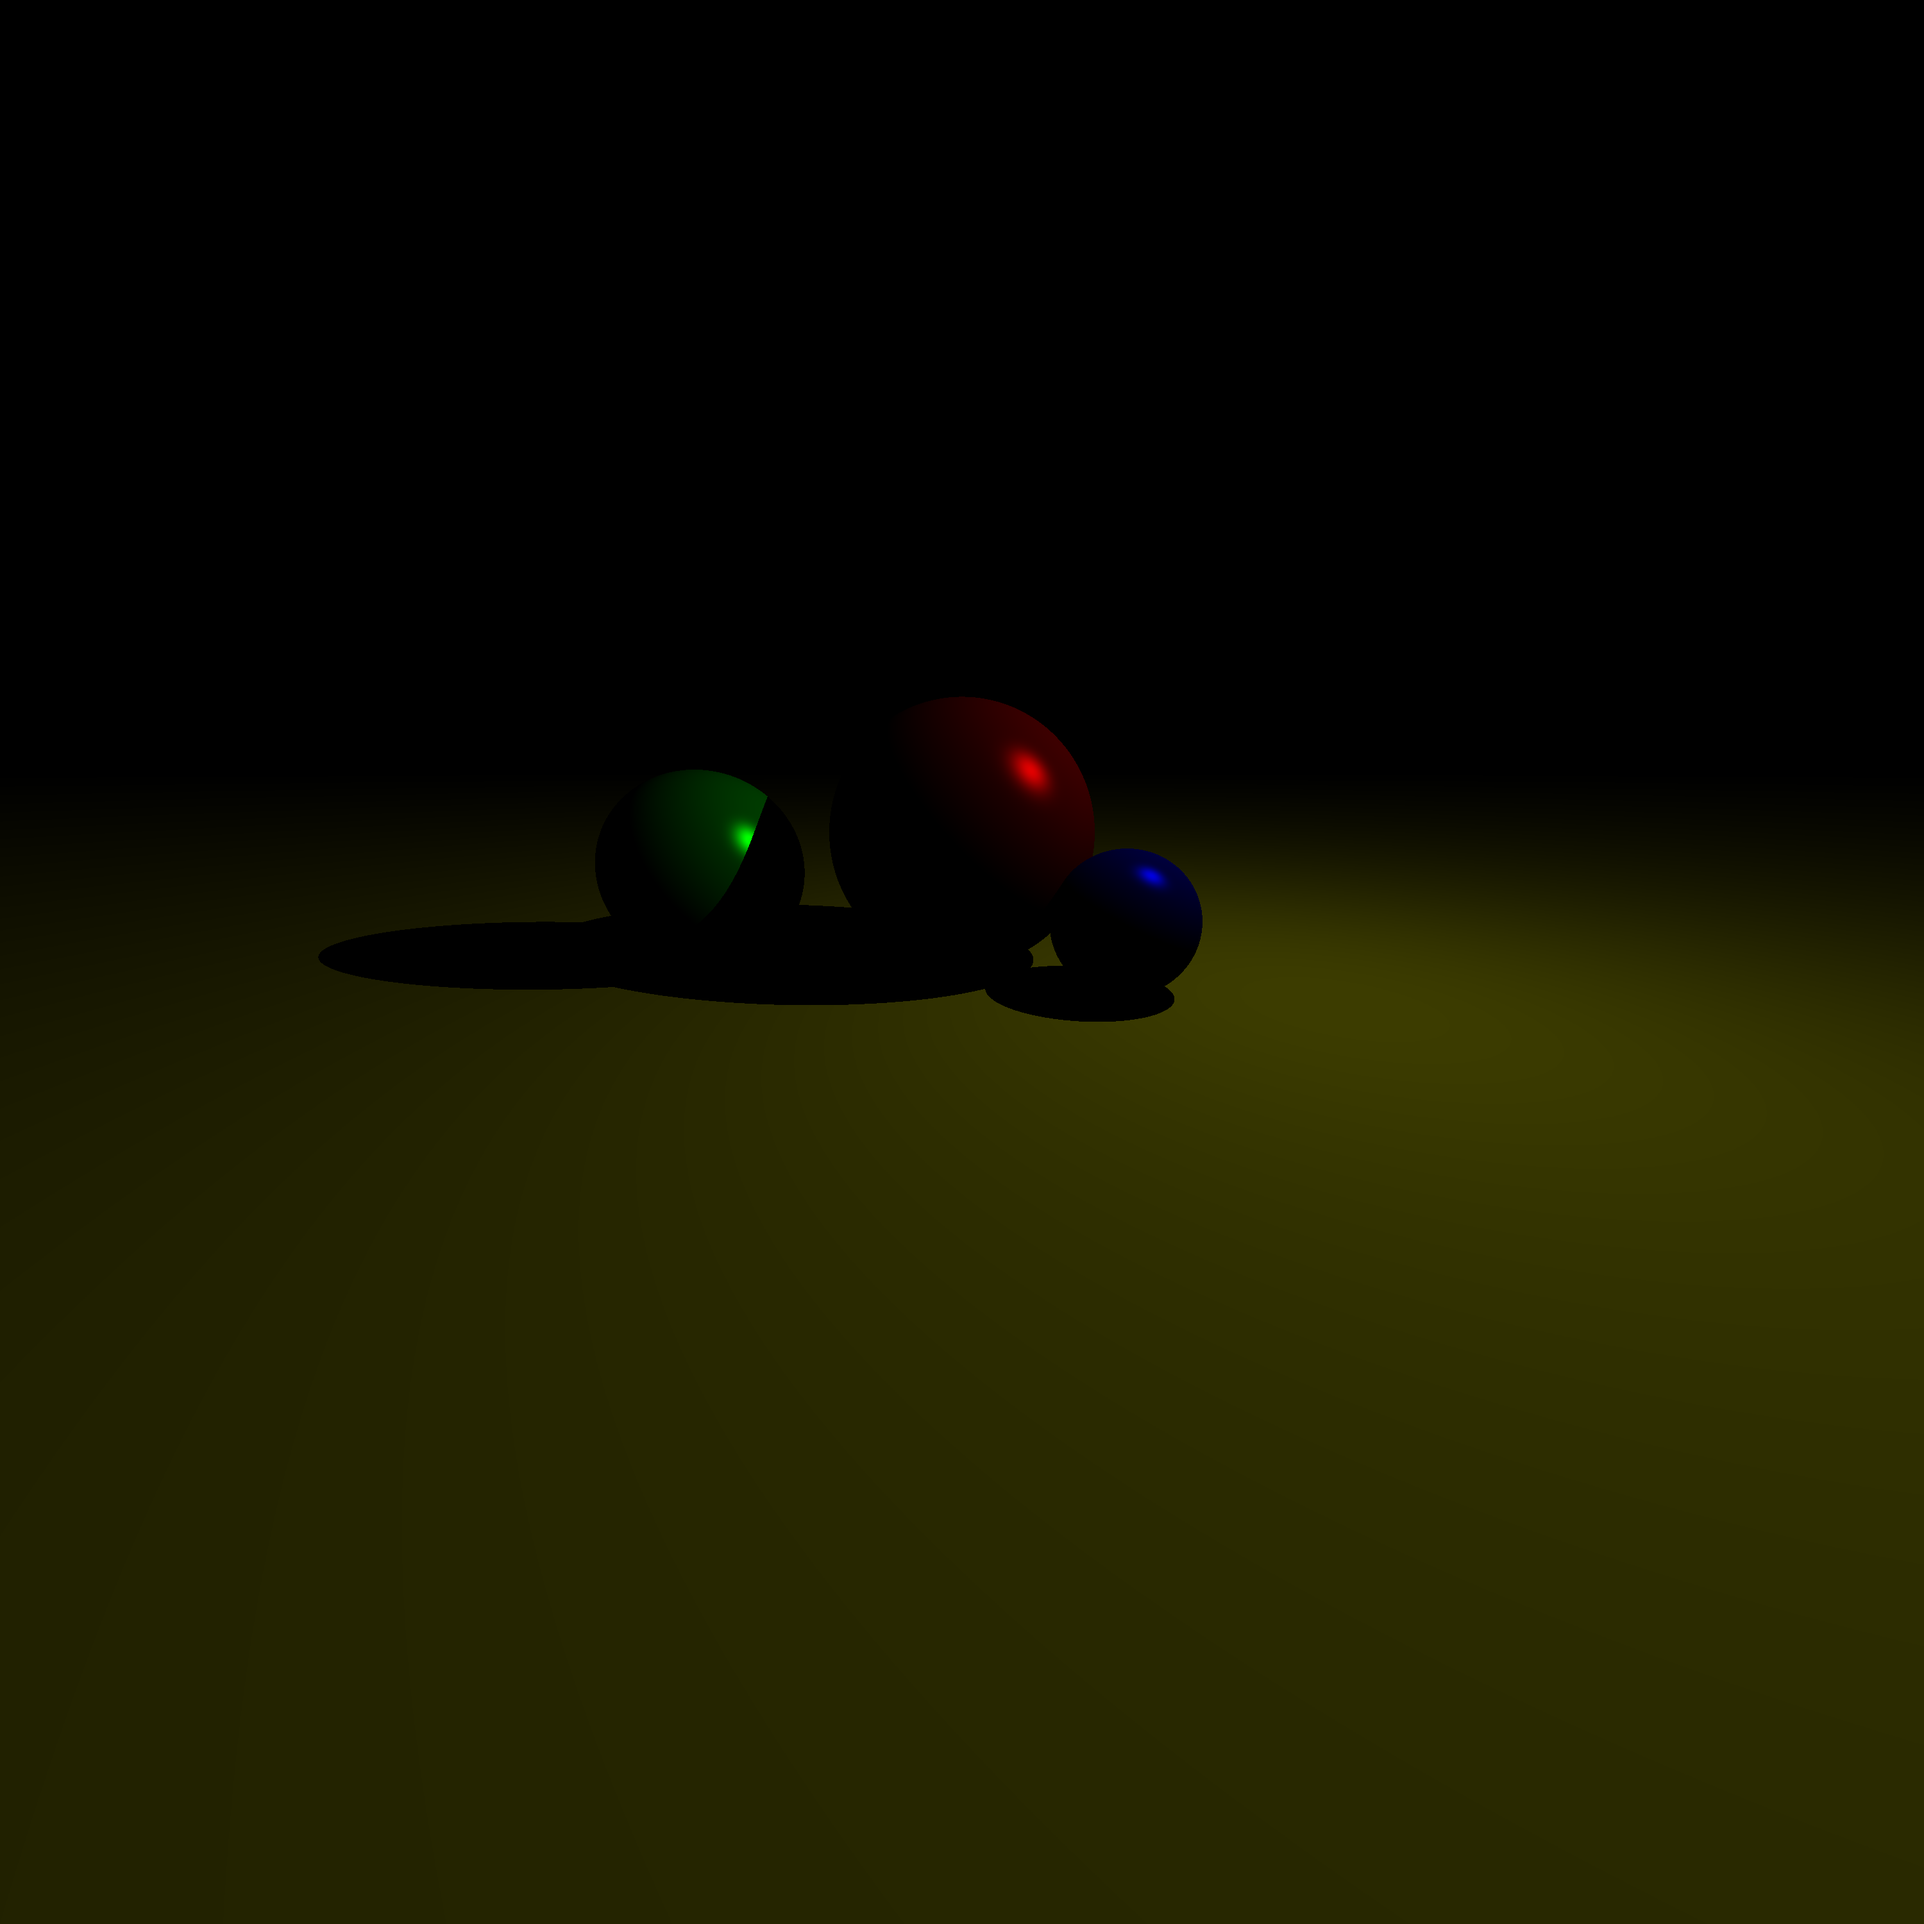
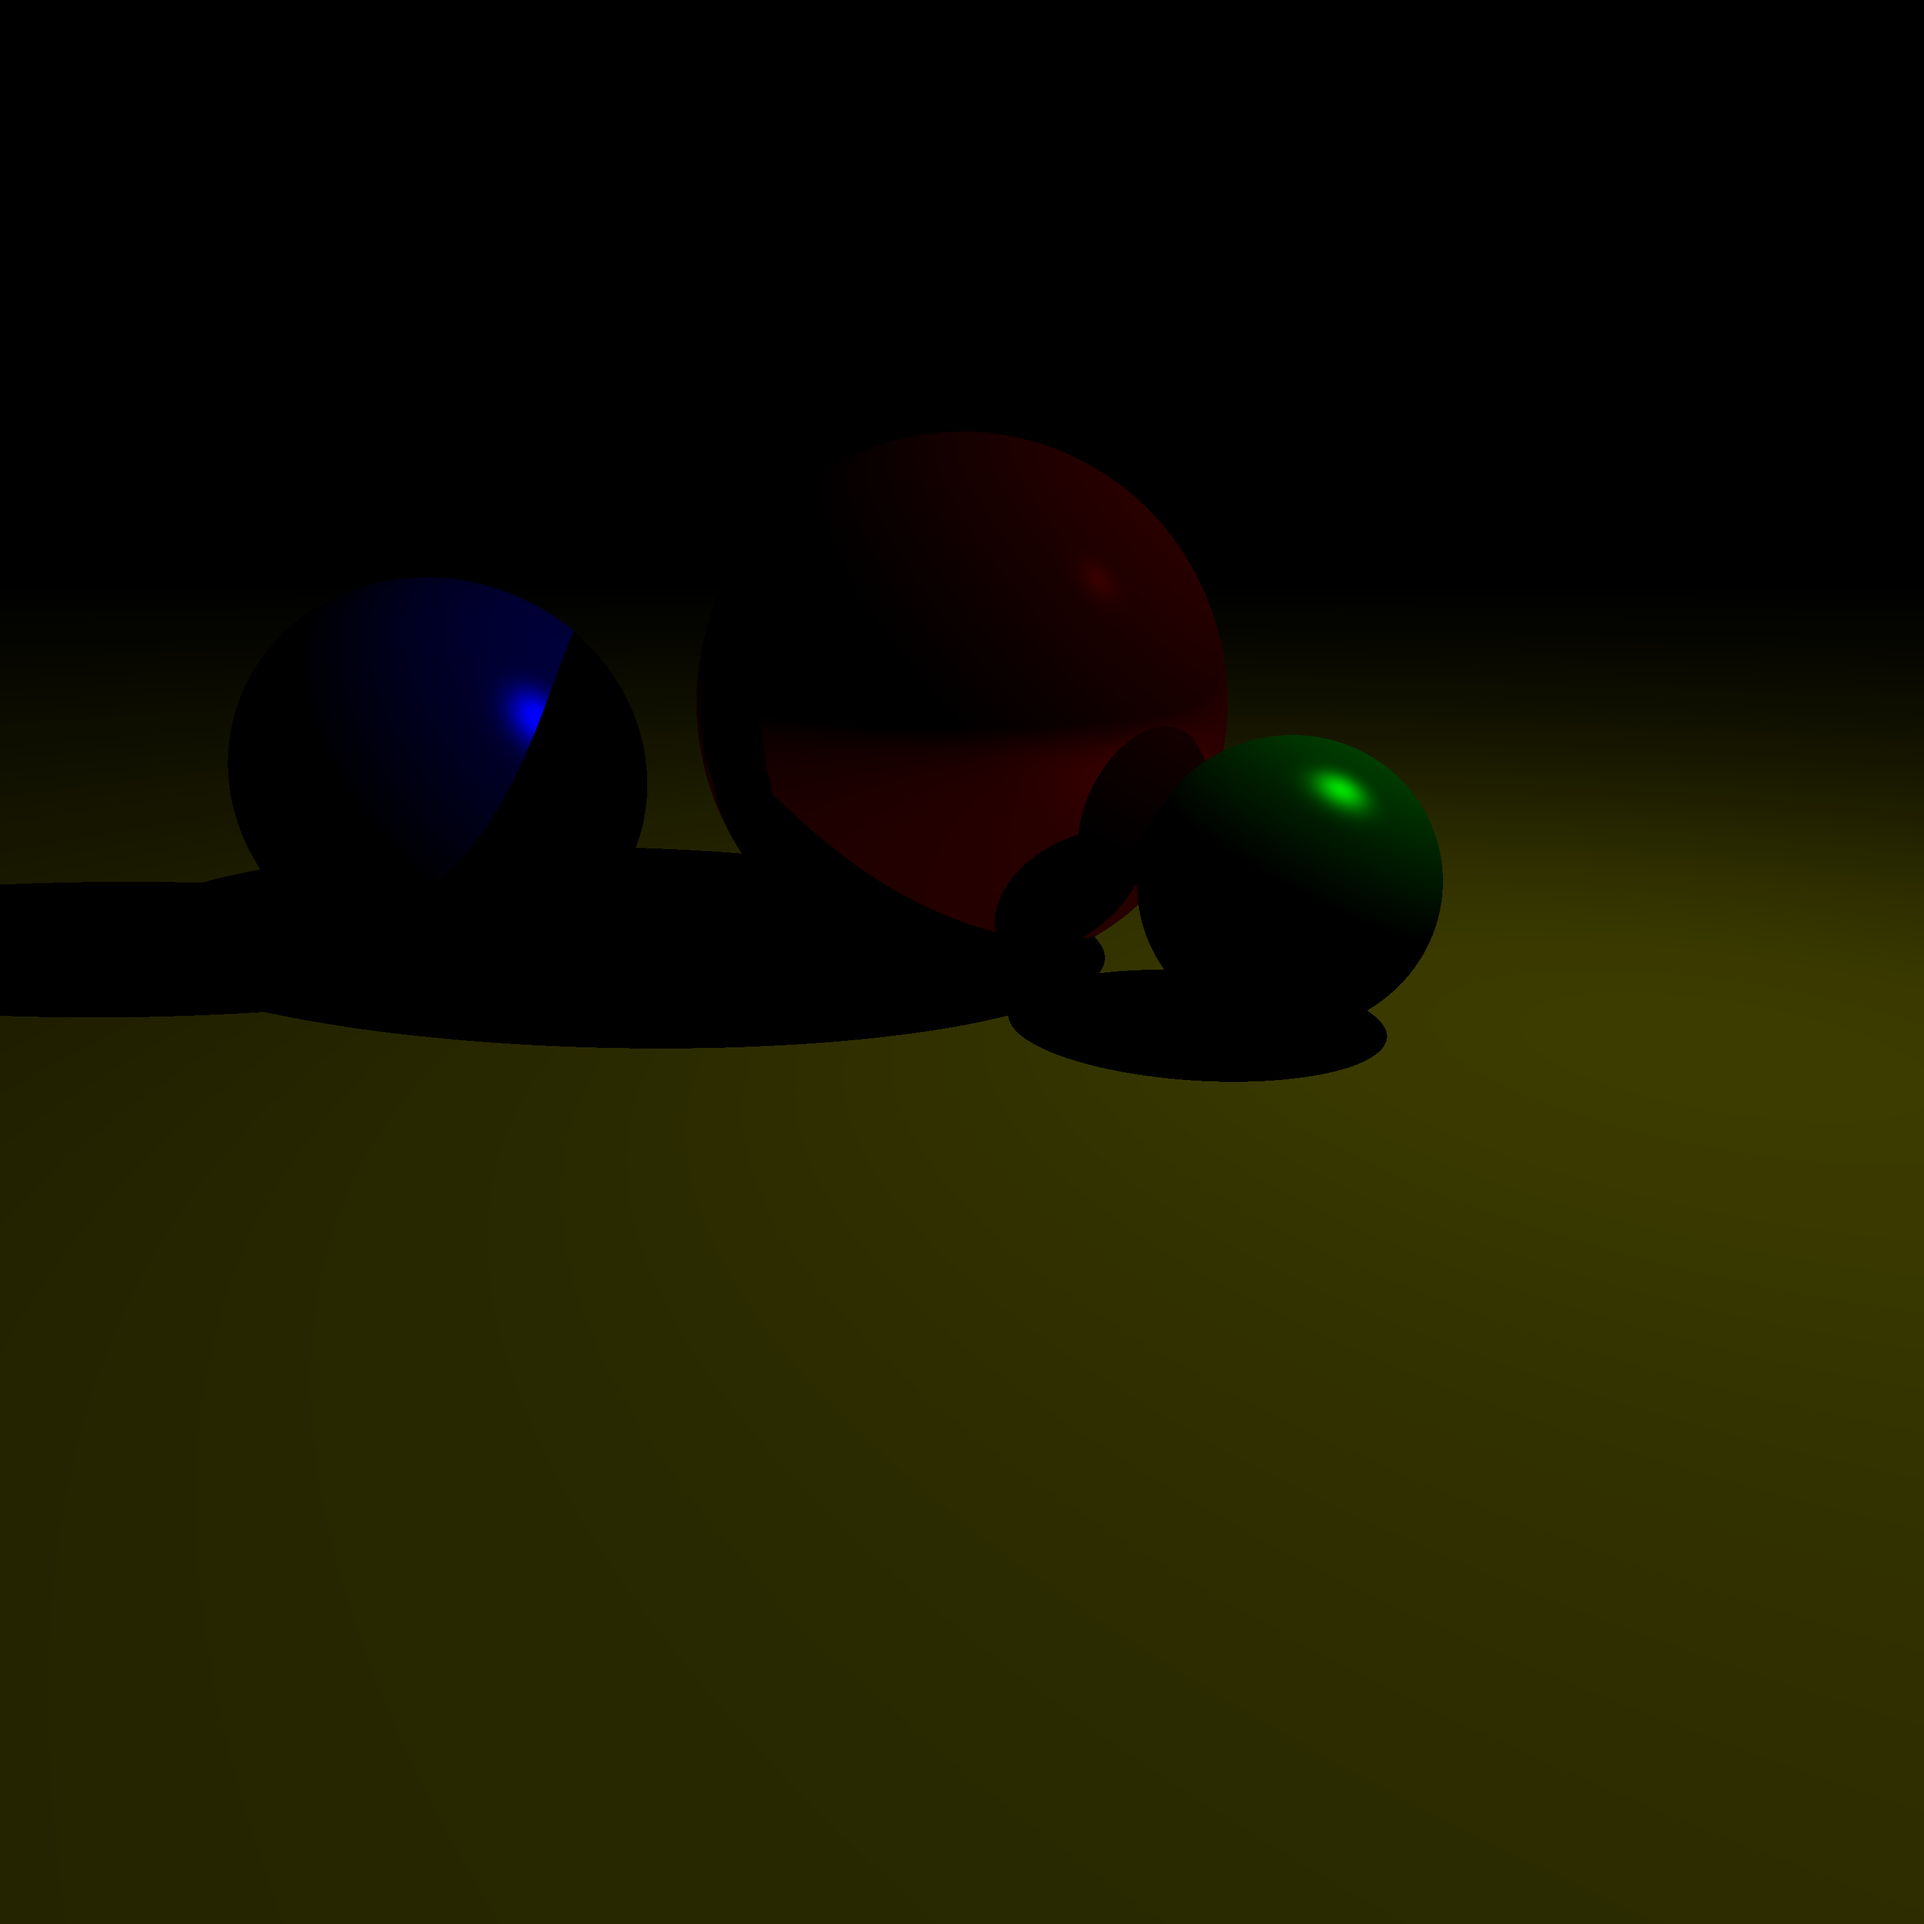
[master] corrected reflections.

Changed region(s): [[0.093, 0.217, 1.0, 0.589], [0.186, 0.279, 0.31, 0.434]]

diff --git a/src/main/java/ar/edu/itba/gc/world/World.java b/src/main/java/ar/edu/itba/gc/world/World.java
@@ -51,7 +51,7 @@ public class World {
 
 	public void build() {
 		camera = new PinholeCamera(new Vector3d(0, 300, 1000), new Vector3d(0,
-				0, 0), new Vector3d(0, 1, 0), 1000.0, 1, 1.0);
+				0, 0), new Vector3d(0, 1, 0), 1000.0, 2, 1.0);
 		camera.computeUVW();
 
 		vp.setHorizontalRes(3000);
@@ -68,13 +68,13 @@ public class World {
 		this.addLight(new PointLight(1, new Vector3d(500, 700, 200)));
 
 		this.addObject(new Sphere(new Phong(this, 0.25, 0.75, 1, 25,
-				new RGBColor(0, 1, 0), vp.getSampler()), new Vector3d(-400.0,
+				new RGBColor(0, 0, 1), vp.getSampler()), new Vector3d(-400.0,
 				150.0, 0.0), 150.0));
-		this.addObject(new Sphere(new Phong(this, 0.25, 0.75, 1, 25,
-				new RGBColor(1, 0, 0), vp.getSampler()), new Vector3d(0.0,
+		this.addObject(new Sphere(new Reflective(this, 0.25, 0.5, 0.15, 100, 0.75, 
+				new RGBColor(1, 0, 0), vp.getSampler(), new RGBColor(1, 0, 0)), new Vector3d(0.0,
 				200.0, 0.0), 200.0));
 		this.addObject(new Sphere(new Phong(this, 0.25, 0.75, 1, 25,
-				new RGBColor(0, 0, 1), vp.getSampler()), new Vector3d(220.0,
+				new RGBColor(0, 1, 0), vp.getSampler()), new Vector3d(220.0,
 				100.0, 150.0), 100.0));
 		this.addObject(new Plane(new Matte(this, 0.25, 0.75, new RGBColor(1, 1,
 				0), vp.getSampler()), new Vector3d(0.0, 0.0, 0.0),

diff --git a/src/main/java/ar/edu/itba/gc/util/ShadeRec.java b/src/main/java/ar/edu/itba/gc/util/ShadeRec.java
@@ -11,7 +11,6 @@ public class ShadeRec {
 	private Vector3d hitPoint;
 	private Vector3d localHitPoint;
 
-	// added this for lights check if used
 	private World world;
 	private Material material;
 	private Vector3d direction;
@@ -19,6 +18,7 @@ public class ShadeRec {
 	private Vector3d normal;
 	
 	private int depth;
+	
 
 	public ShadeRec(World world) {
 		super();
@@ -59,6 +59,10 @@ public class ShadeRec {
 
 	public Vector3d getDirection() {
 		return direction;
+	}
+
+	public void setDirection(Vector3d direction) {
+		this.direction = direction;
 	}
 
 	public double getT() {

diff --git a/src/main/java/ar/edu/itba/gc/material/GlossySpecular.java b/src/main/java/ar/edu/itba/gc/material/GlossySpecular.java
@@ -2,6 +2,7 @@ package ar.edu.itba.gc.material;
 
 import javax.vecmath.Vector3d;
 
+import ar.edu.itba.gc.sampler.MultiJittered;
 import ar.edu.itba.gc.sampler.Sampler;
 import ar.edu.itba.gc.util.RGBColor;
 import ar.edu.itba.gc.util.ShadeRec;
@@ -62,6 +63,11 @@ class GlossySpecular extends BRDF {
 		// pdf = phong_lobe * (sr.getNormal() * wi);
 
 		return (RGBColor.mult(RGBColor.mult(cs, ks), phong_lobe));
+	}
+	
+	public void setSamples(int sampleNum, double exp) {
+		this.setSampler(new MultiJittered(sampleNum));
+		this.getSampler().mapSamplesToHemisphere(exp);
 	}
 	
 }

diff --git a/src/main/java/ar/edu/itba/gc/material/Reflective.java b/src/main/java/ar/edu/itba/gc/material/Reflective.java
@@ -14,9 +14,9 @@ public class Reflective extends Phong {
 	private PerfectSpecular reflectiveBRDF;
 
 	public Reflective(World world, double ka, double kd, double ks, double exp,
-			double kr, RGBColor cd, Sampler sampler) {
+			double kr, RGBColor cd, Sampler sampler, RGBColor cr) {
 		super(world, ka, kd, ks, exp, cd, sampler);
-		this.reflectiveBRDF = new PerfectSpecular(kr, cd, sampler);
+		this.reflectiveBRDF = new PerfectSpecular(kr, cr, sampler);
 	}
 
 	@Override

diff --git a/src/main/java/ar/edu/itba/gc/tracer/WhittedTracer.java b/src/main/java/ar/edu/itba/gc/tracer/WhittedTracer.java
@@ -19,6 +19,7 @@ public class WhittedTracer extends Tracer {
 			ShadeRec sr = ray.hit(this.getWorld());
 			if (sr.hitsAnObject()) {
 				sr.setDepth(depth);
+				sr.setDirection(ray.getDirection());
 				return sr.getMaterial().shade(sr);
 			}
 			return this.getWorld().background;

diff --git a/src/main/java/ar/edu/itba/gc/material/BRDF.java b/src/main/java/ar/edu/itba/gc/material/BRDF.java
@@ -34,5 +34,9 @@ abstract class BRDF {
 	Sampler getSampler() {
 		return this.sampler;
 	}
+
+	public void setSampler(Sampler sampler) {
+		this.sampler = sampler;
+	}
 	
 }
